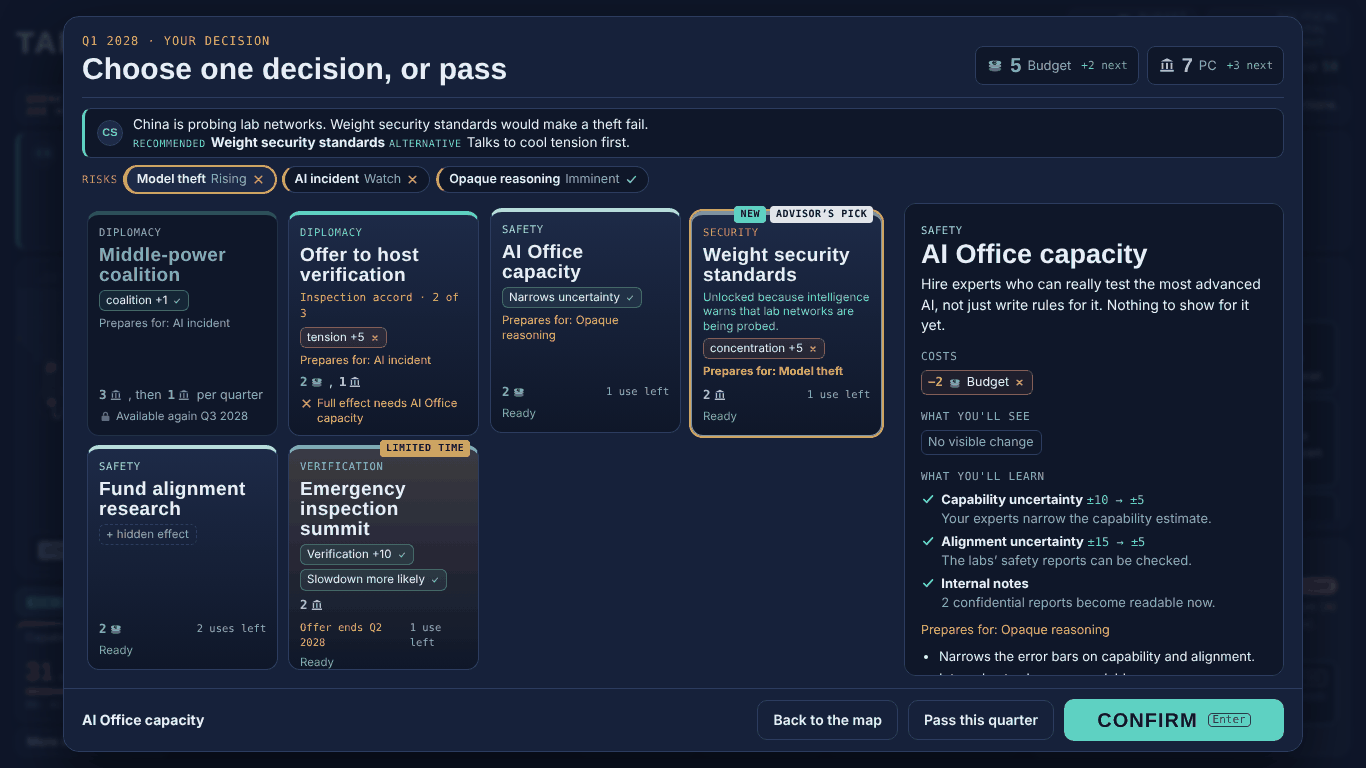
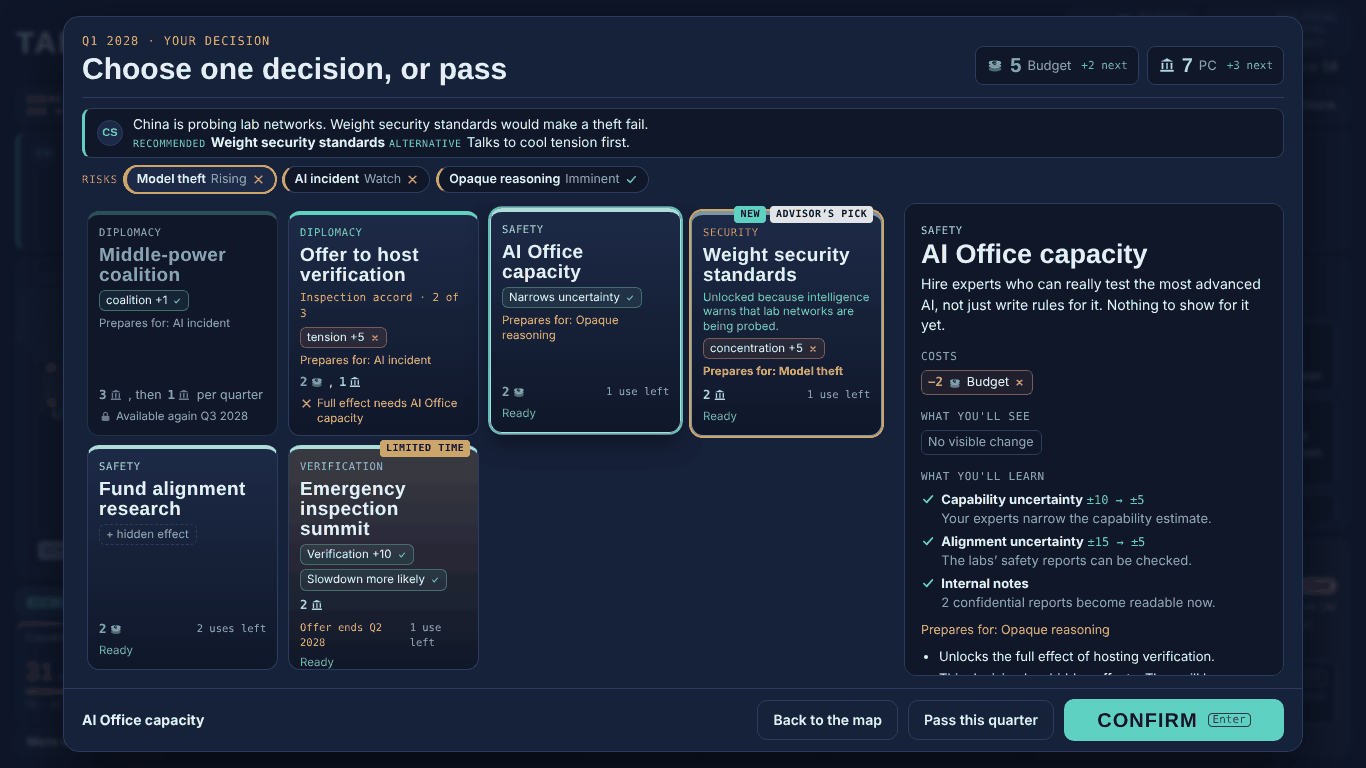
Decision preview ends with its source (Confirm lives in the sticky bar); e2e full-game timeout; refreshed screenshots
Claude-Session: https://claude.ai/code/session_01LSwpJS5xn5SGb1m53Db9uo

diff --git a/src/ui/styles.css b/src/ui/styles.css
@@ -424,8 +424,8 @@ kbd { font-family: var(--f-data); font-size: 11px; font-weight: 400; letter-spac
 .oc-val em.good { color: var(--good); } .oc-val em.bad { color: var(--crit); } .oc-val em.flat { color: var(--mute); }
 /* the action bar stays in view at the bottom of the preview, however long the preview (B9);
    the negative offset and margin cover the preview's bottom padding so nothing shows below it */
-.pv-foot { display: flex; flex-wrap: wrap; gap: 10px; align-items: center; margin-top: auto; position: sticky; bottom: -14px; z-index: 1; margin-bottom: -14px; padding: 10px 0 14px; background: var(--night); border-top: 1px solid var(--rule); }
-.pv-foot .btn-primary { flex: 1; justify-content: center; }
+/* the preview ends with the card's source; Confirm and Pass live in the decision's sticky bar (.dec-bar) */
+.pv-foot { display: flex; flex-wrap: wrap; gap: 10px; align-items: center; margin-top: auto; padding-top: 6px; }
 .decision.free .dec-head h2 { color: var(--rival); }
 
 /* =================================================================== OPENING */
@@ -616,7 +616,6 @@ body.ended { overflow: auto; }
   .hand { overflow: visible; }
   /* the page scrolls instead of the preview: its action bar sticks to the bottom of the screen */
   .preview { overflow: visible; }
-  .pv-foot { bottom: 0; margin-bottom: 0; }
   .boxes, .reveal, .tp-grid, .currencies { grid-template-columns: minmax(0, 1fr); }
   .loop { grid-template-columns: minmax(0, 1fr); }
   .loop li:not(:last-child)::after { display: none; }

diff --git a/e2e/game.spec.ts b/e2e/game.spec.ts
@@ -146,6 +146,8 @@ async function checkEnding(page: Page, s: Session, played: string[]) {
 }
 
 test.describe('a full game', () => {
+  // a whole game, with one more step per quarter since v2 (the player asks for each decision)
+  test.describe.configure({ timeout: 240_000 });
   test('fast takeoff (seed 9): tipping point, superpowers choose, ending, debrief, play again', async ({ page }) => {
     const s = await boot(page, '?skipintro&seed=9');
     const { played, seen } = await playToEnd(page, s);
